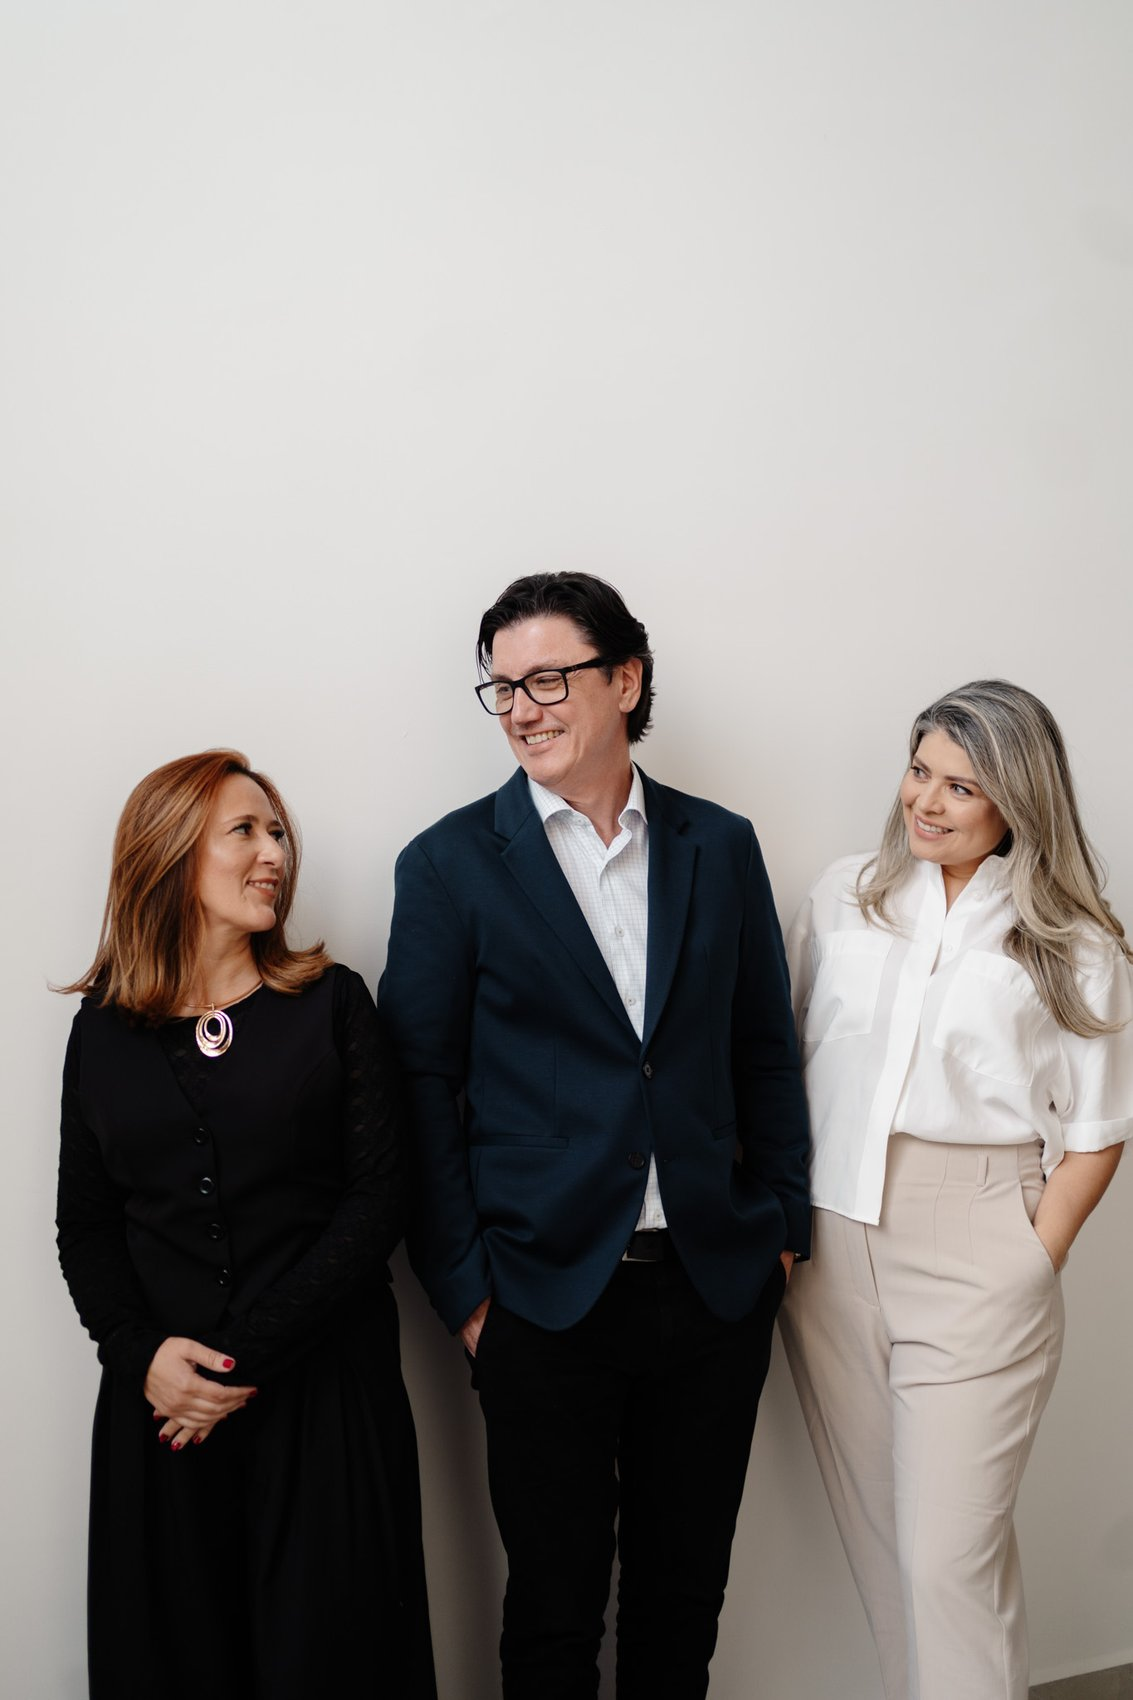
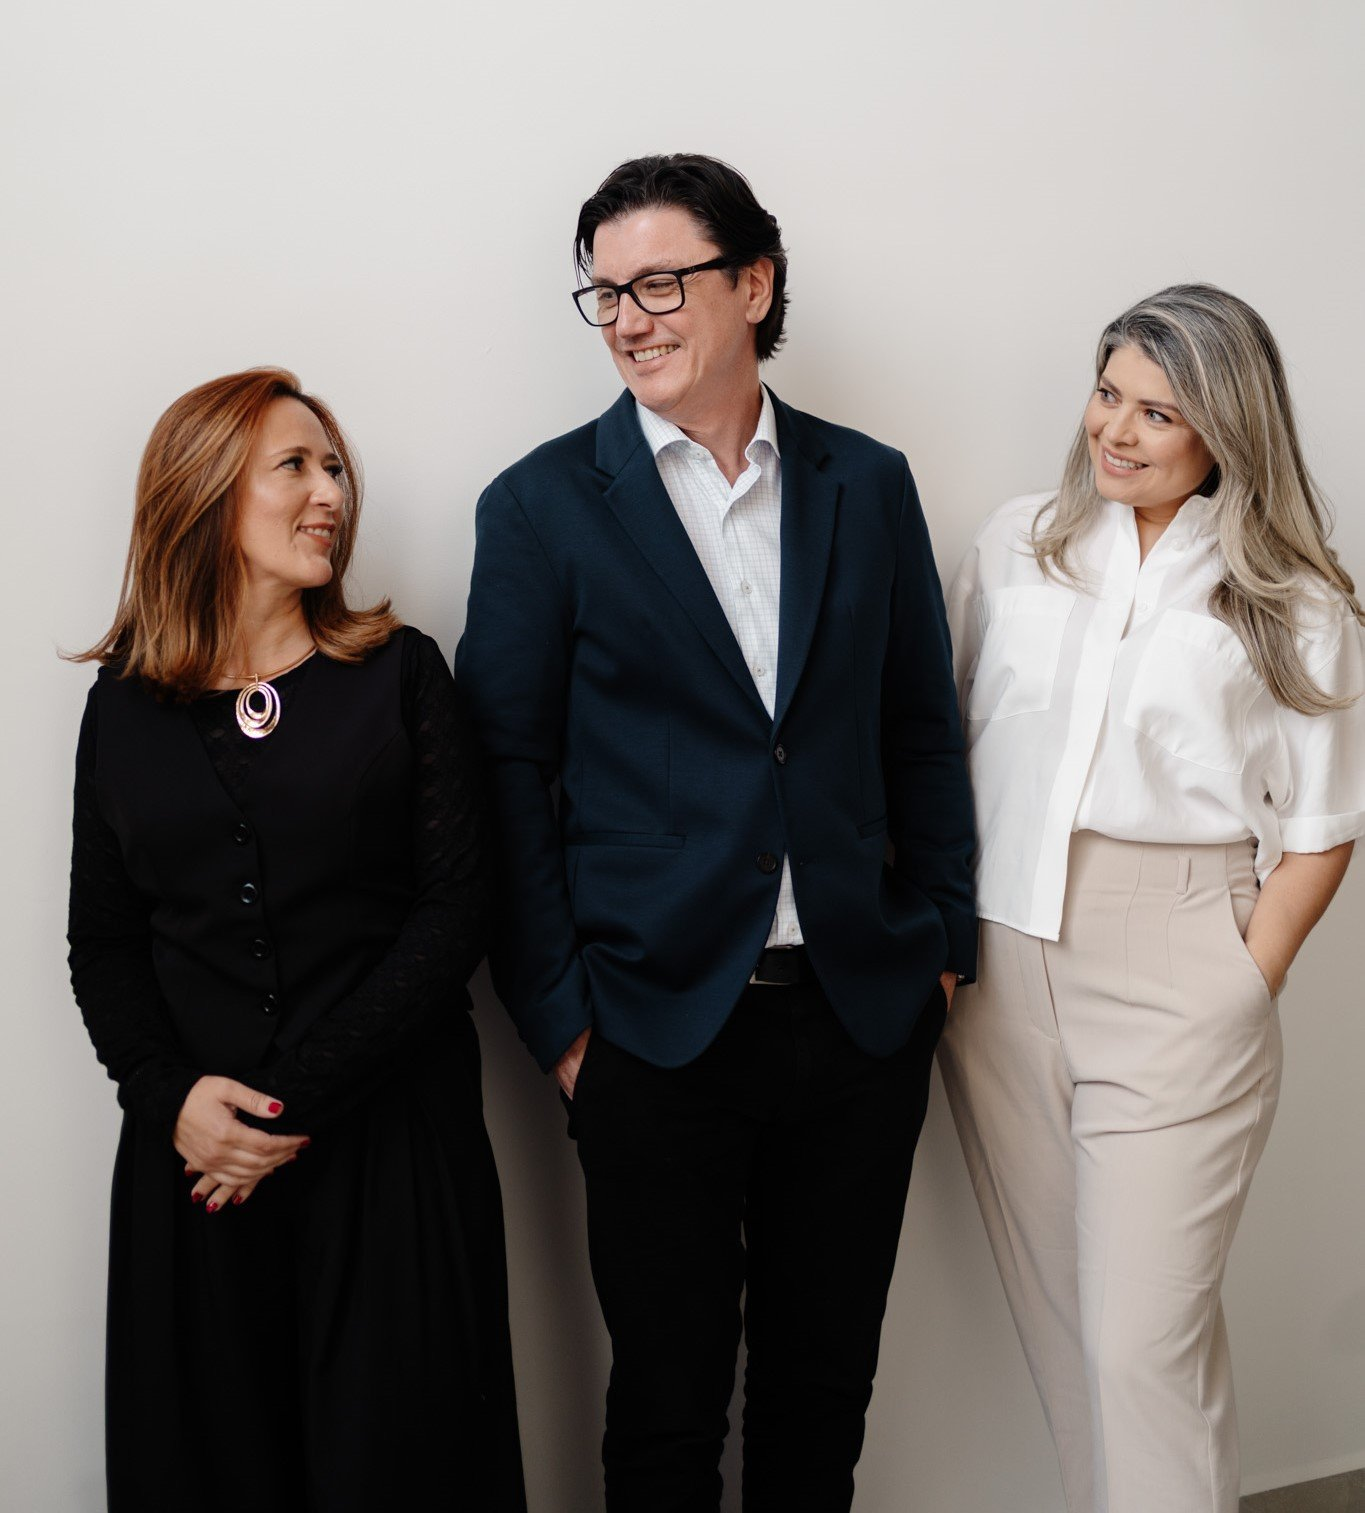
Troca a foto de fundo (nova foto da equipe, mais aberta)
- assets/equipe.jpg: nova foto (3 profissionais, enquadramento mais cheio)
- Bump de cache: equipe.jpg ?v=1 -> ?v=2; styles.css ?v=24
- Enquadramento aproveita melhor o hero (rostos mais presentes)

diff --git a/css/styles.css b/css/styles.css
@@ -1309,7 +1309,7 @@ button {
 /* ---------- Fundo único (foto) cobrindo capa + Lista VIP ---------- */
 .cover-wrap {
   position: relative;
-  background-image: url("../assets/equipe.jpg?v=1");
+  background-image: url("../assets/equipe.jpg?v=2");
   background-size: cover;
   background-position: center 22%;
   background-repeat: no-repeat;

diff --git a/index.html b/index.html
@@ -24,7 +24,7 @@
   <!-- Icons (lucide) -->
   <script src="https://unpkg.com/lucide@latest/dist/umd/lucide.min.js" defer></script>
 
-  <link rel="stylesheet" href="css/styles.css?v=23" />
+  <link rel="stylesheet" href="css/styles.css?v=24" />
   <link rel="icon" type="image/png" href="assets/logo.png?v=3" />
 </head>
 <body>
